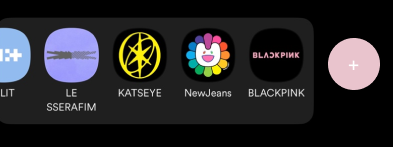
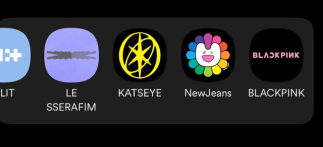
테스트

diff --git a/src/App/App.jsx b/src/App/App.jsx
@@ -1,12 +1,11 @@
 import React from 'react';
-import {Routes, Route} from 'react-router-dom';
+import { Routes, Route } from 'react-router-dom';
 import Layout from '../components/Layout';
 import Home from '../pages/Home';
 import Music from '../pages/Music';
-import Shop from '../pages/Shop'
-import MyPage from '../pages/MyPage'
-
-
+import Shop from '../pages/Shop';
+import MyPage from '../pages/MyPage';
+import ArtistPage from '../pages/ArtistPage'; 
 
 const App = () => {
   return (
@@ -16,9 +15,10 @@ const App = () => {
         <Route path='music' element={<Music />} />
         <Route path='shop' element={<Shop />} />
         <Route path='mypage' element={<MyPage />} />
+        <Route path='artistpage' element={<ArtistPage />} />
       </Route>
     </Routes>
   )
 }
 
-export default App
+export default App;

diff --git a/src/components/main/ArtistList.jsx b/src/components/main/ArtistList.jsx
@@ -1,10 +1,24 @@
 import React from 'react';
-import artistList from '../../assets/artist_list.png'; // 경로에 실제 이미지가 있어야 함
+import { useNavigate } from 'react-router-dom';  // import
+import artistList from '../../assets/artist_list.png'; 
+import artistList2 from '../../assets/artist_list copy.png'; 
 
 const ArtistList = () => {
+  const navigate = useNavigate();
+
+  const handleClick = () => {
+    navigate('/artistpage'); // ArtistPage.jsx가 라우팅된 경로로 변경하세요
+  };
+
   return (
     <div>
       <img src={artistList} alt="Artist List" />
+      <img 
+        src={artistList2} 
+        alt="Artist List" 
+        style={{ cursor: 'pointer' }} 
+        onClick={handleClick} 
+      />
     </div>
   );
 };

diff --git a/src/pages/ArtistPage.jsx b/src/pages/ArtistPage.jsx
@@ -1,0 +1,11 @@
+import React from 'react'
+
+const ArtistPage = () => {
+  return (
+    <div>
+      
+    </div>
+  )
+}
+
+export default ArtistPage
